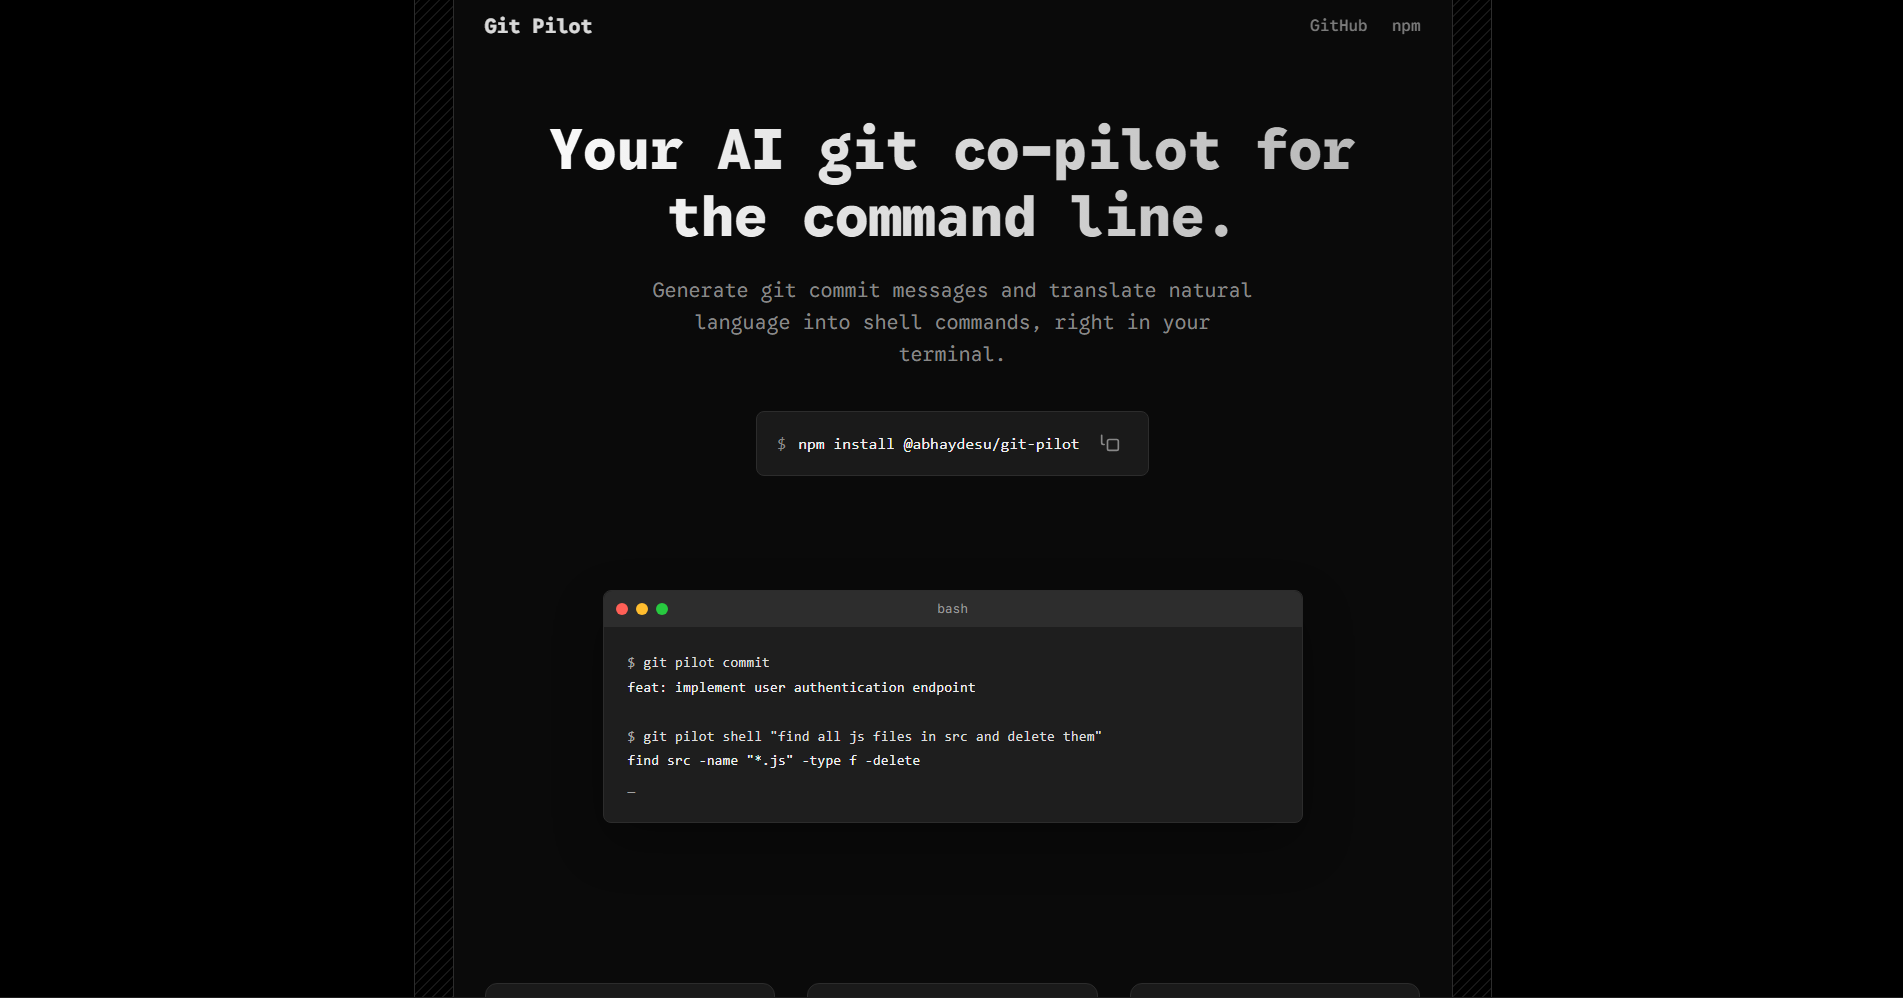
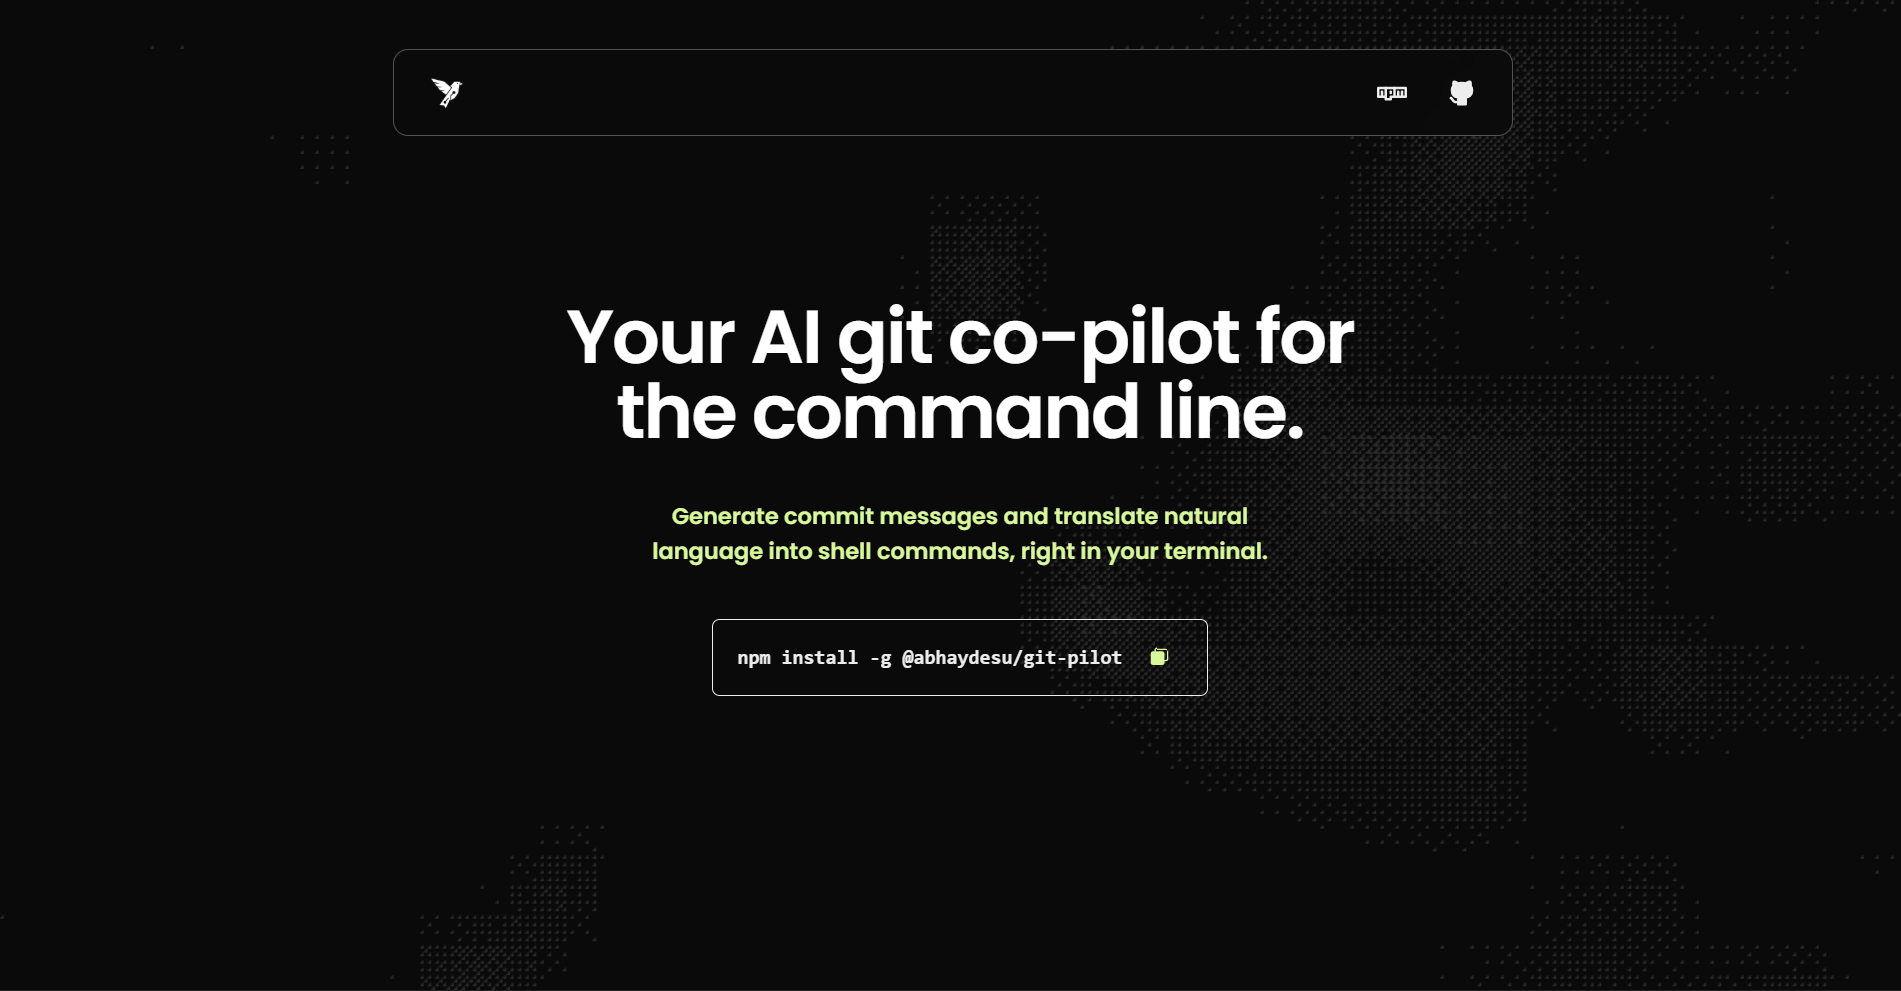
feat: update Git Pilot preview
- Update the link to the Git Pilot CLI demo.
- Update the preview image.

diff --git a/src/constants/projects.ts b/src/constants/projects.ts
@@ -12,7 +12,7 @@ export const projects: Project[] = [
             id: 1,
             title: "Git Pilot CLI",
             src: "/git-pilot-demo.png",
-            href: "https://git-pilot-api.vercel.app/",
+            href: "https://gitpilotcli.vercel.app/",
             description: "An AI assistant in your terminal that translates natural language into Git commands and commit messages.",
             tech: ['Node.js', 'Express.js', 'Google Gemini API', 'Commander.js', 'Vercel']
         },
